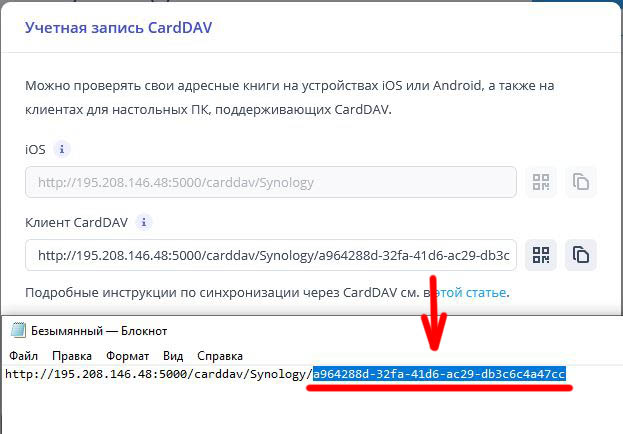
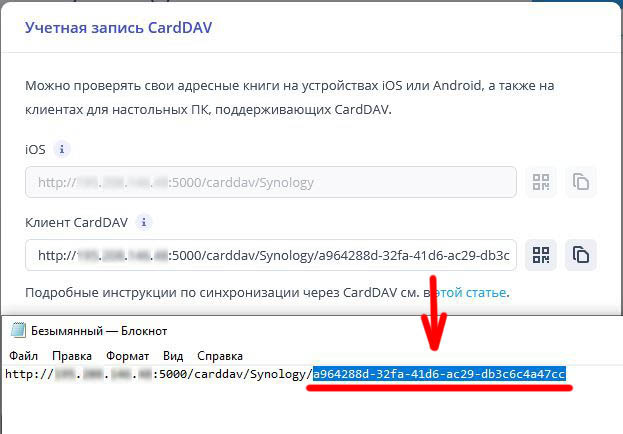
Исправлены картинки

diff --git a/README.md b/README.md
@@ -40,7 +40,7 @@
  <h3>Synology Contacts</h3>
  <p>Пакет - основа для CardDav протокола и веб-интерфейс 
  для управления контактами и адресными книгами.</p>
-<p>Инструкции по настройке и установке <a href="https://github.com/vltolstov/EmailSender/tree/master/SynologyContacts">здесь</a></p>
+<p>Инструкции по настройке <a href="https://github.com/vltolstov/EmailSender/tree/master/SynologyContacts">здесь</a></p>
  
  
  <h3>CardDav Export</h3>
